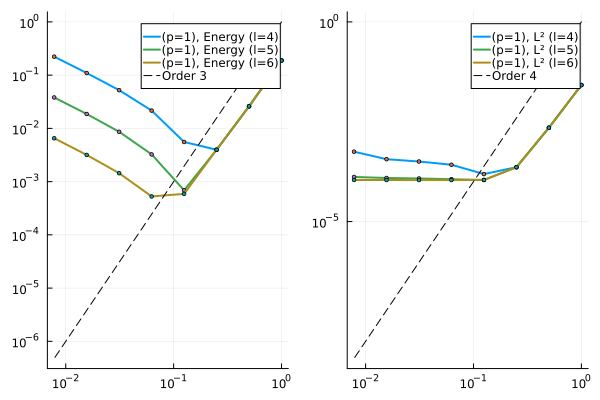
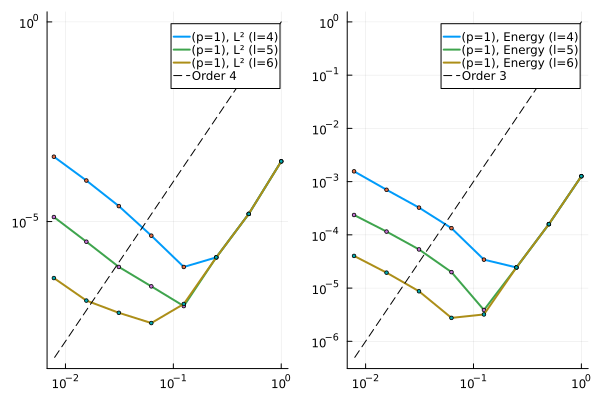
Corrections to parabolic problem, rate of convergence, update README.md

diff --git a/README.md b/README.md
@@ -164,7 +164,7 @@ $$
 \end{align*}
 $$
 
-I take $h = 2^{-15}$ and $H = 2^0, 2^{-1}, \cdots, 2^{-7}$. In the temporal direction, I set $\Delta t = 10^{-5}$ and solve till final time $T = 500 \Delta t$ (500 steps). I use the fourth order backward difference formula for discretizing the temporal part. The exact solution was taken to be the standard finite element solution on a mesh whose size is $h$. I compute the rate of convergence for the smooth diffusion coefficient 
+I take $h = 2^{-15}$ and $H = 2^0, 2^{-1}, \cdots, 2^{-7}$. In the temporal direction, I set $\Delta t = 10^{-4}$ and solve till final time $T = 1.0$. I use the fourth order backward difference formula for discretizing the temporal part. The exact solution was taken to be the standard finite element solution on a mesh whose size is $h$. I compute the rate of convergence for the smooth diffusion coefficient 
 
 $$
 A(x) = 0.5,
@@ -179,6 +179,31 @@ $$
 Constant coefficient | Oscillatory coefficient |
 --- | --- |
 ![](./HigherOrderMS/Images/ooc_8_heat_eq.png) | ![](./HigherOrderMS/Images/ooc_9_heat_eq_osc.png)
+
+Similar behavior can be seen for higher order methods also.
+
+`(p=2)` (Oscillatory coefficient) | `(p=3)` (Oscillatory coefficient) |
+--- | --- |
+![](./HigherOrderMS/Images/ooc_11_heat_eq_osc_p2.png) | ![](./HigherOrderMS/Images/ooc_12_heat_eq_osc_p3.png) |
+
+**NOTE:** I modified the vector assembly function by simply forcing the function to return zeros.
+
+``` julia
+# RHS Function
+function fₙ_MS!(cache, tₙ::Float64)
+  contrib_cache, Fms = cache
+  # vector_cache = vec_contribs!(contrib_cache, y->f(y,tₙ))
+  # fcache = local_basis_vecs, elem_indices_to_global_indices, Lᵀ, vector_cache
+  # fillsFms!(sFms, fcache, nc, p, l)
+  # assemble_MS_vector!(Fms, sFms, ms_elem)
+  # Fms
+  ####   ####   ####   ####   ####   ####  ####
+  #### NOTE: This works only if f(x,t) ≡ 0 ####
+  ####   ####   ####   ####   ####   ####  ####
+  0*Fms
+end
+```
+This effectively bypasses the assembly routine and will make the code run faster. This works only for the case $f(x,t) = 0$. Please note that the actual assembly step is a major bottleneck in the implementation and needs to optimized further to make the code more efficient (future work).
 
 ## Localized Orthogonal Decomposition Method
 -------
